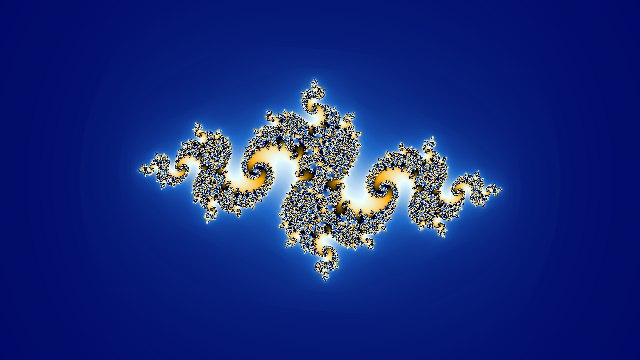
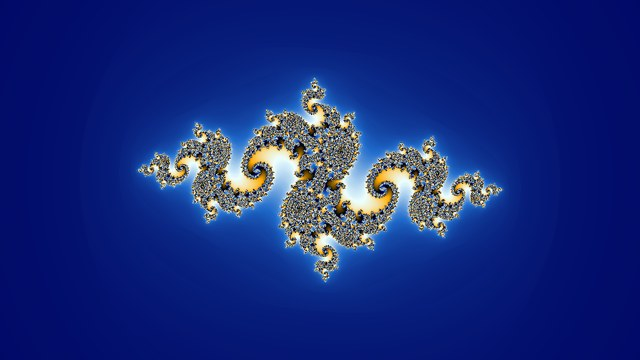
Refresh visuals: sharper hero GIF, browser-rendered gallery, unified palette
- The CUDA renderer now uses the browser default "Ice fractal" gradient
  instead of a cosine palette, so all three backends colour a view
  identically (and the deep GIF frames stop drifting into garish hues).
- Hero GIF: 640x360 at 16.7 fps (was 480x270 at 12.5), 3x supersampled,
  256 colours, no dithering (its per-frame noise shimmered in motion and
  doubled the file size). Target moved to the repelling fixed point of
  z^2+c, computed with mpmath to 40 digits and baked into the script
  defaults - the old default centre drifted off the set and went blank
  past 1e-6. The README embeds it centred at native width, since
  browser upscaling was blurring it.
- Gallery and deep-zoom images re-rendered through the fixed WebGPU
  shader at 2x supersampling, each with the palette its live-demo link
  selects.
- Drop docs/full-view.jpg (no longer referenced).

Changed region(s): [[0.2188, 0.2139, 0.7812, 0.7944]]

diff --git a/scripts/make_zoom_gif.py b/scripts/make_zoom_gif.py
@@ -1,13 +1,18 @@
 """Renders the README hero GIF: a continuous deep zoom into the Julia set.
 
 Frames are rendered with the CUDA renderer (build it first: see cuda/README.md)
-at 2× the target size, downscaled with Lanczos, then quantized to a SHARED
-palette (built from a mid-zoom frame) so the GIF does not flicker between
-frames. The zoom is interpolated in log space for a constant perceived speed.
+at --ss times the target size, downscaled with Lanczos (the supersampling is
+what turns the shimmering sub-pixel filaments into smooth antialiased detail),
+then quantized to a SHARED palette (built from a mid-zoom frame) so the GIF
+does not flicker between frames. The zoom is interpolated in log space for a
+constant perceived speed.
+
+The README shows the GIF at its native width: keep --width in sync with the
+`<img width=...>` attribute there, otherwise browser upscaling blurs it.
 
 Usage:
     uv run python scripts/make_zoom_gif.py
-    uv run python scripts/make_zoom_gif.py --frames 60 --width 400 --height 225 --colors 96
+    uv run python scripts/make_zoom_gif.py --frames 80 --width 480 --height 270 --colors 128
 """
 
 from __future__ import annotations
@@ -25,17 +30,35 @@ from PIL import Image
 def main() -> None:
     p = argparse.ArgumentParser(description="Render the deep-zoom hero GIF")
     p.add_argument("--exe", default=os.path.join("cuda", "julia.exe" if os.name == "nt" else "julia"))
-    p.add_argument("--re", default="0.0304", help="zoom target, real part")
-    p.add_argument("--im", default="-0.564", help="zoom target, imaginary part")
+    # The default target is the repelling fixed point of z² + c (computed with
+    # mpmath to 40 digits; --re/--im are parsed to double-double). It provably
+    # lies ON the Julia set, so there is structure at every depth — a centre
+    # merely *near* the set drifts off it and goes blank past ~1e-6.
+    p.add_argument(
+        "--re", default="1.527503118643534610789746402444915337567",
+        help="zoom target, real part (must lie on the Julia set)",
+    )
+    p.add_argument(
+        "--im", default="-0.07591217835228786707181419482634804636642",
+        help="zoom target, imaginary part",
+    )
     p.add_argument("--cre", type=float, default=-0.8)
     p.add_argument("--cim", type=float, default=0.156)
     p.add_argument("--start-scale", type=float, default=3.0)
     p.add_argument("--end-scale", type=float, default=1e-9)
-    p.add_argument("--frames", type=int, default=80)
-    p.add_argument("--width", type=int, default=480)
-    p.add_argument("--height", type=int, default=270)
-    p.add_argument("--colors", type=int, default=128)
-    p.add_argument("--duration", type=int, default=80, help="ms per frame")
+    p.add_argument("--frames", type=int, default=100)
+    p.add_argument("--width", type=int, default=640)
+    p.add_argument("--height", type=int, default=360)
+    p.add_argument("--colors", type=int, default=256)
+    p.add_argument("--duration", type=int, default=60, help="ms per frame")
+    p.add_argument("--ss", type=int, default=3, help="supersampling factor")
+    p.add_argument(
+        "--dither",
+        choices=["none", "fs"],
+        default="none",
+        help="none: crisp + compresses ~2x better (256 colours hide the banding); "
+        "fs: Floyd-Steinberg, whose per-frame noise shimmers in motion",
+    )
     p.add_argument("--out", default=os.path.join("docs", "zoom.gif"))
     args = p.parse_args()
 
@@ -58,8 +81,8 @@ def main() -> None:
             subprocess.run(
                 [
                     args.exe,
-                    "--w", str(args.width * 2),
-                    "--h", str(args.height * 2),
+                    "--w", str(args.width * args.ss),
+                    "--h", str(args.height * args.ss),
                     "--iter", str(max_iter),
                     "--scale", f"{scale:.8e}",
                     "--re", args.re,
@@ -77,8 +100,9 @@ def main() -> None:
     print()
 
     # Shared palette from a mid-zoom frame: avoids per-frame palette flicker.
+    dither = Image.FLOYDSTEINBERG if args.dither == "fs" else Image.NONE
     reference = frames[len(frames) // 2].quantize(colors=args.colors, method=Image.MEDIANCUT)
-    quantized = [f.quantize(colors=args.colors, palette=reference, dither=Image.FLOYDSTEINBERG) for f in frames]
+    quantized = [f.quantize(colors=args.colors, palette=reference, dither=dither) for f in frames]
 
     os.makedirs(os.path.dirname(args.out) or ".", exist_ok=True)
     quantized[0].save(
@@ -91,8 +115,9 @@ def main() -> None:
     )
     size_mb = os.path.getsize(args.out) / 1e6
     print(f"-> {args.out} ({size_mb:.2f} MB, {args.frames} frames, {args.colors} colours)")
-    if size_mb > 4.0:
-        print("Over the 4 MB budget — retry with fewer frames / smaller size / fewer colours.")
+    # GitHub's image proxy (camo) refuses files around 10 MB; stay well under.
+    if size_mb > 8.5:
+        print("Over the 8.5 MB budget — retry with fewer frames / smaller size / fewer colours.")
 
 
 if __name__ == "__main__":

diff --git a/README.md b/README.md
@@ -13,7 +13,11 @@ pixel-for-pixel against an arbitrary-precision reference.
 **[▶ Live demo](https://timmor77.github.io/FractalFlow/)** — WebGPU in Chrome/Edge,
 automatic WebGL2 fallback elsewhere.
 
-![Continuous deep zoom into the Julia set (×10⁹, rendered by the CUDA backend)](docs/zoom.gif)
+<p align="center">
+  <!-- Native width (matches make_zoom_gif.py --width): browser upscaling would blur it. -->
+  <img src="docs/zoom.gif" width="640"
+       alt="Continuous deep zoom into the Julia set (×10⁹, rendered by the CUDA backend)">
+</p>
 
 ## Highlights
 
@@ -74,9 +78,12 @@ The high-precision centre is stored as a **double-double** value (two `float64`s
 the second holds the rounding error of the first), which is what lets the browser reach
 ~`1e-28` zoom.
 
-![In-browser render at ×1,000,000 zoom near a repelling fixed point of z²+c](docs/deep-zoom.jpg)
+<p align="center">
+  <img src="docs/deep-zoom.jpg" width="620"
+       alt="In-browser render at ×1,000,000 zoom near a repelling fixed point of z²+c">
+</p>
 
-*Rendered in the browser at ×10⁶ zoom, centred near a repelling fixed point of
+*Rendered in the browser at ×10⁶ zoom, centred on a repelling fixed point of
 `z² + c` — a point that provably lies on the Julia set, so there is structure at
 every depth.*
 
